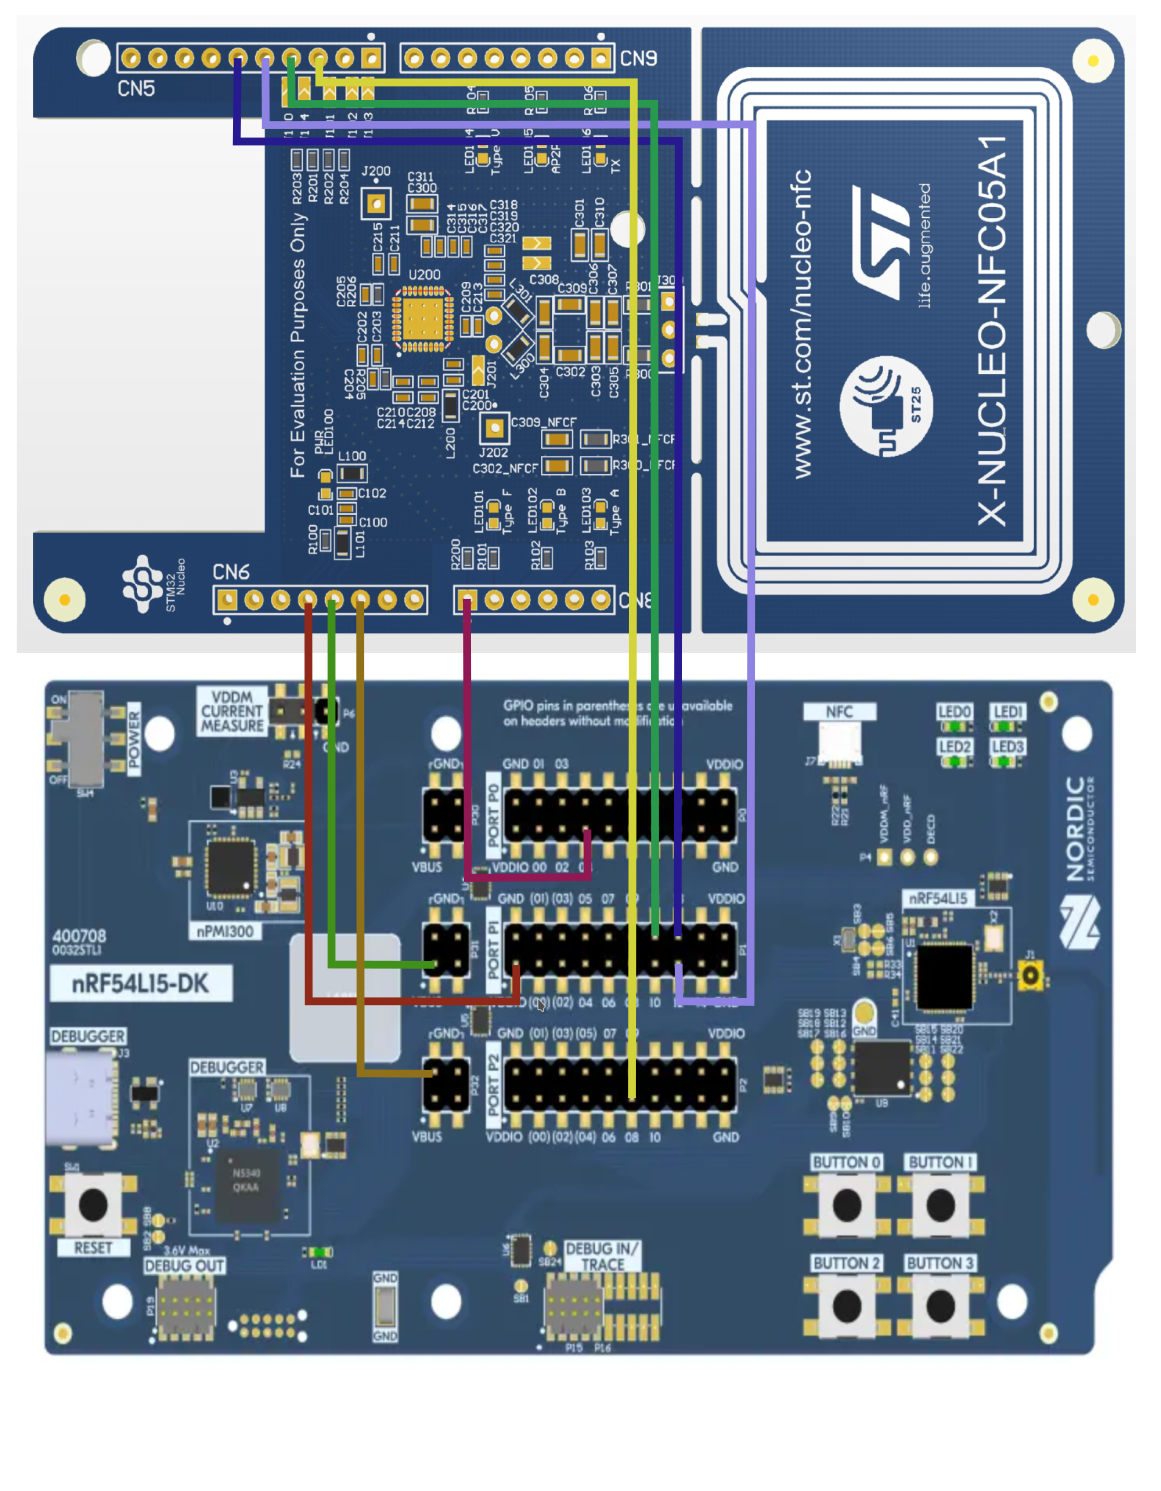
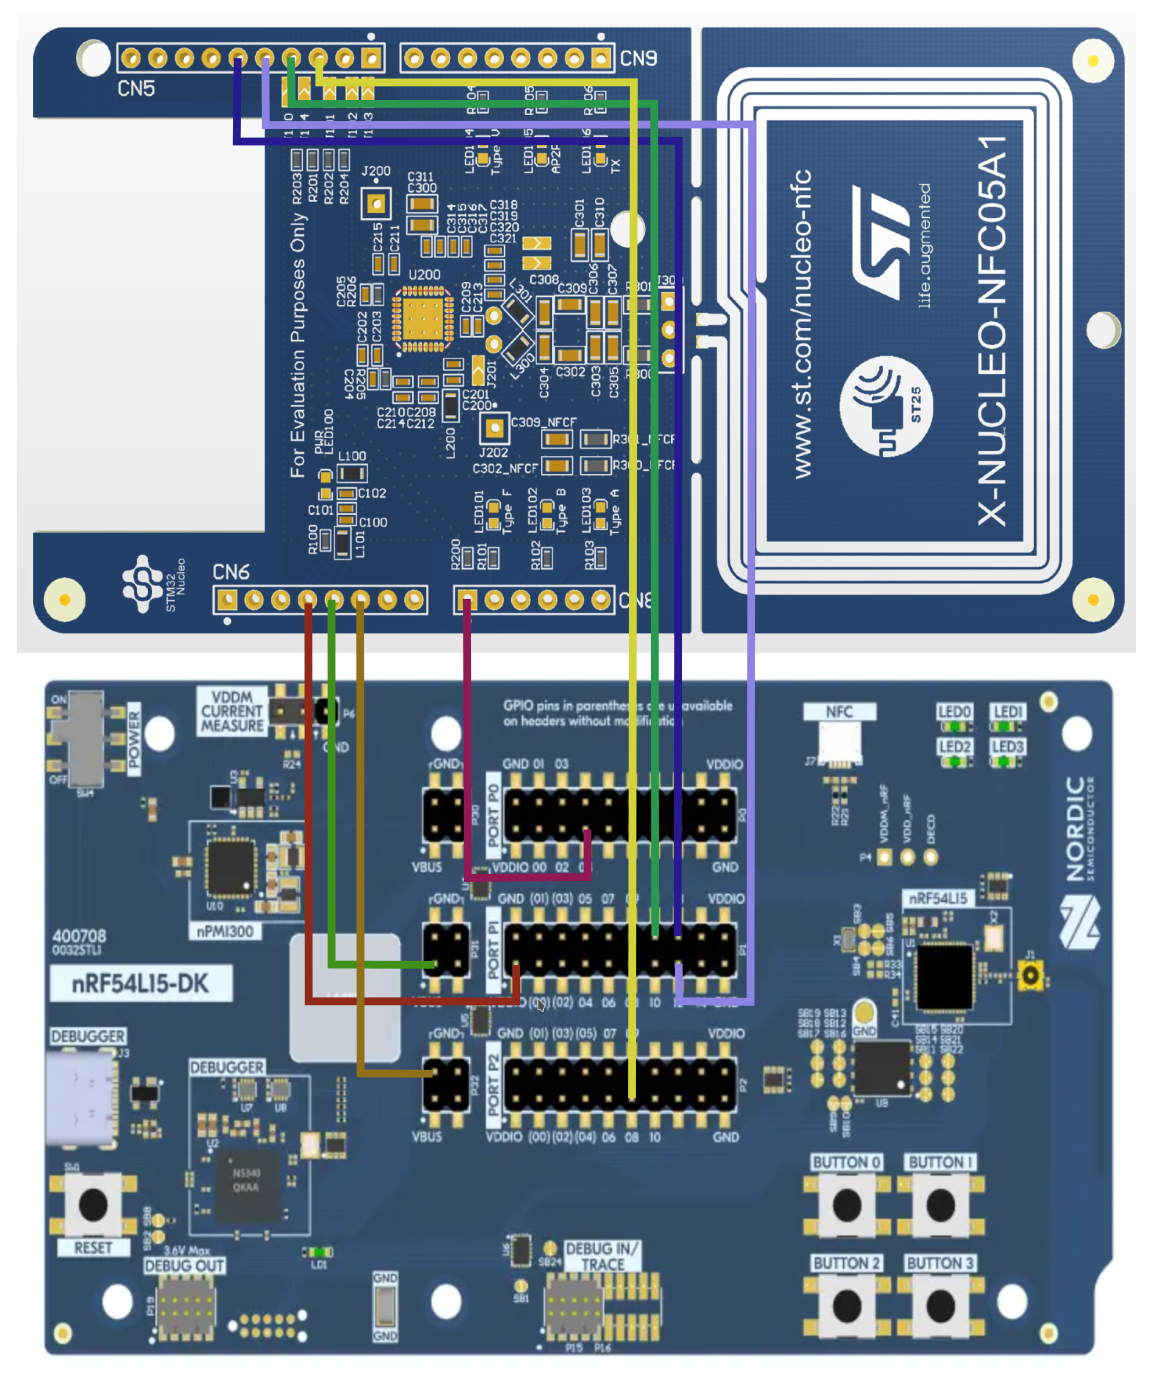
doc: review
Reviewed added changes

diff --git a/docs/hardware_requirements.rst b/docs/hardware_requirements.rst
@@ -3,9 +3,9 @@
 Hardware requirements
 #####################
 
-Before running and testing the NCS door lock, make sure you have required hardware.
+To run and test the NCS door lock, you must have the required hardware.
 
-.. _development_kit:
+.. _hw_requirements_development_kit:
 
 Development kit
 ***************
@@ -24,33 +24,31 @@ The application supports the following development kit (DK):
      - `nrf54l15dk`_
      - ``nrf54l15dk/nrf54l15/cpuapp``
 
+.. _hw_requirements_vddio_configuration:
 
-.. _vddio_configuration:
+Configuring VDDIO voltage
+=========================
 
-Port VDDIO voltage configuration on the development kit
-=======================================================
+The nRF54L15 DK operates at default voltage level of 1.8V.
+Some expansion boards, especially Arduino-style boards, require higher voltage to operate properly.
+You can adjust the voltage for ports on the nRF54L15 DK up to 3.3V using the `Board Configurator app`_.
+First, you must `install the Board Configurator app <Installing Board Configurator app_>`_ and once completed `Update your DK's configuration <Updating the board configuration_>`_.
 
-The nRF54L15 DK operates on a lower voltage level (1.8V) by default. Some expansion boards, especially Arduino-style boards, are not compatible
-with this voltage, and they are required higher voltage to operate. The ports on the nRF54L15 can be adjusted up to 3.3V.
-
-The voltage on the VDD rail of the nRF54L15 can be configured through the `nRF Connect Board Configurator`_ application.
-See `Installing Board Configurator app`_ to install the application and `Updating the board configuration`_ in order to change the DK configuration.
-
-See the picture below for VDD (nPM VOUT1) suggested configuration.
+See the recommended configuration for VDD (nPM VOUT1):
 
 .. figure:: /images/VDDIO-configuration.png
-   :scale: 50%
-   :alt: Suggested VDD board configuration.
+   :scale: 70%
+   :alt: VDD board configuration.
 
-   Suggested VDD board configuration.
+   VDD board configuration.
 
-.. _nfc_reader:
+.. _hw_requirements_nfc_reader:
 
 Near Field Communication (NFC) reader
 *************************************
 
-In addition to the DK you need at least NFC reader which is mandatory.
-The application supports the following NFC readers and development expansion boards based on them:
+To start working with the application, you must have at least one NFC reader.
+The application supports the following NFC readers and their corresponding development expansion boards:
 
 +-------------------+---------------------------------+
 | NFC reader        | NFC reader expansion board      |
@@ -63,17 +61,16 @@ The application supports the following NFC readers and development expansion boa
 +-------------------+---------------------------------+
 
 .. note::
-   The DK does not have Arduino-comatible header, thus the board must be connected via wires.
-   The pinout is described below and works for each of mentioned boards.
 
-.. warning::
-   The ``X-NUCLEO-NFC09A1`` board requires at least ``2.7V`` to operate and for the `nRF54L15 DK`_ GPIO voltage should be adjusted.
-   For more information, see :ref:`vddio_configuration`.
+   The `X-NUCLEO-NFC09A1`_ board requires a minimum of 2.7V to operate.
+   Because of that, you must adjust the GPIO voltage for the `nRF54L15 DK`_ as outlined in the :ref:`hw_requirements_vddio_configuration` section.
 
-To connect the NFC reader expansion board to the `nRF54L15 DK`_ refer to the following pin mapping:
+The DK does not have Arduino-compatible header, therefore, you must connect your board using wires.
+To connect the NFC reader expansion board to the `nRF54L15 DK`_, refer to the following pin mapping.
+The pinout is applicable for each of the supported NFC reader expansion boards:
 
 +-------------------+-----------------------+
-| nRF54L15 DK board | X-NUCLEO-NFC09A1      |
+| nRF54L15 DK       | X-NUCLEO board        |
 +===================+=======================+
 | P1.13             | SCK MCU (D13)         |
 +-------------------+-----------------------+
@@ -94,18 +91,19 @@ To connect the NFC reader expansion board to the `nRF54L15 DK`_ refer to the fol
 
 .. figure:: /images/nRF54L_X_NUCLEO_connection.png
    :scale: 50%
-   :alt: Expansion board connection.
+   :alt: Expansion board connection to the nRF54L15 DK.
 
-   X-NUCLEO expansion board connection to nRF54L15 DK.
+   X-NUCLEO expansion board connection to the nRF54L15 DK.
 
-.. _test_harness_hardware:
+.. _hw_requirements_test_harness:
 
 Test harness hardware
 *********************
 
-For testing purposes, you can use the official `Aliro Certification Tool`_ (aka test harness).
-To set up the test harness, you must meet the `test harness hardware requirements`_.
+For testing purposes, use the official `Aliro Certification Tool`_ as a test harness.
+To set it up, you must first meet the `test harness hardware requirements`_.
 
 .. note::
-   In order to gain access to this repository, you must be a member of the `Connectivity Standards Alliance`_ (CSA)
-   and send a request to the e-mail address: [email redacted] with your Github username.
+
+   In case you do not have an access to this repository, send a request to the [email redacted] providing your GitHub username.
+   Be aware that you must first become a member of the `Connectivity Standards Alliance`_ (CSA).

diff --git a/docs/building_and_running.rst b/docs/building_and_running.rst
@@ -3,15 +3,16 @@
 Building and running
 ####################
 
-In the workspace ``door-lock-workspace`` the |APP_NAME| is placed in the ``ncs-door-lock-app`` directory.
+In the :file:`door-lock-workspace` the |APP_NAME| is placed in the :file:`ncs-door-lock-app` directory.
 To build and run the application on the `nRF54L15 DK`_, complete the following steps:
 
-1. Connect the nRF54L15 DK to your computer using the ``DEBUGGER`` port on the DK. Set the ``POWER`` switch to ``ON``.
+1. Connect the nRF54L15 DK to your computer using the **DEBUGGER** port on the DK.
+   Set the **POWER** switch to **ON**.
 
-#. In the ``door-lock-workspace`` directory, navigate to the ``ncs-door-lock-app`` folder.
+#. In the :file:`door-lock-workspace` directory, navigate to the :file:`ncs-door-lock-app` folder.
 
-#. Depending on the :ref:`NFC reader expansion board <nfc_reader>` connected to the development kit,
-   build the application by running one of the following commands:
+#. Depending on the :ref:`NFC reader expansion board <hw_requirements_nfc_reader>` connected to the development kit,
+   build the application by running the corresponding command:
 
    +-----------------------+-----------------------+--------------------------------------------------------------------------------------------------------------+
    | Build type            | X-NUCLEO-NFC board    | Command                                                                                                      |
@@ -29,31 +30,31 @@ To build and run the application on the `nRF54L15 DK`_, complete the following s
 
       west flash
 
-#. To verify the application runs, connect to the DK with a terminal emulator that supports VT100/ANSI
-   escape characters (for example, nRF Connect Serial Terminal).
+#. To verify if the application runs, connect to the DK with a terminal emulator that supports VT100/ANSI escape characters.
+   It is recommended to use the `Serial Terminal app`_.
    See the `Testing and optimization`_ page in the |NCS| documentation for the required settings.
 
    .. note::
       |app_hwfc_enabled|
 
-#. Press the ``RESET`` button on the DK in order to refresh the application.
+#. Press the **RESET** button on the DK in order to refresh the application.
    You should see the following logs:
 
    .. code-block:: console
 
-      *** Booting My Application v0.1.0-619a3021dd37 ***                              
-      *** Using nRF Connect SDK v2.9.99-2116d9135090 ***                              
-      *** Using Zephyr OS v3.7.99-a2eaddb4bcbb ***                                    
-      I:                                                                              
-                                                @@@   @@@@                            
-          @@@@@@@@@@@@                          @@@                                   
-        @@@@@      @@@@@              @@@@   @@ @@@    @@      @@     @@@@            
-       @@@@          @@@@          @@@@  @@@@@@ @@@    @@   @@@@@  @@@   @@@@         
-      @@@@     @@      @@@        @@@       @@@ @@@    @@  @@@   @@@       @@@        
-      @@@     @@@@@    @@@       @@@        @@@ @@@    @@  @@    @@@        @@        
-      @@@   @@@@@@@@   @@@       @@@        @@@ @@@    @@  @@    @@@        @@        
-       @@@    @@@@    @@@@        @@@      @@@@ @@@    @@  @@     @@       @@@        
-        @@@   @@@@   @@@@           @@@@@@@@@@@  @@@@@ @@  @@      @@@@@@@@@          
-         @@@@ @@@@ @@@@                                                               
-           @@ @@@@ @@                                                                 
+      *** Booting My Application v0.1.0-619a3021dd37 ***
+      *** Using nRF Connect SDK v2.9.99-2116d9135090 ***
+      *** Using Zephyr OS v3.7.99-a2eaddb4bcbb ***
+      I:
+                                                @@@   @@@@
+          @@@@@@@@@@@@                          @@@
+        @@@@@      @@@@@              @@@@   @@ @@@    @@      @@     @@@@
+       @@@@          @@@@          @@@@  @@@@@@ @@@    @@   @@@@@  @@@   @@@@
+      @@@@     @@      @@@        @@@       @@@ @@@    @@  @@@   @@@       @@@
+      @@@     @@@@@    @@@       @@@        @@@ @@@    @@  @@    @@@        @@
+      @@@   @@@@@@@@   @@@       @@@        @@@ @@@    @@  @@    @@@        @@
+       @@@    @@@@    @@@@        @@@      @@@@ @@@    @@  @@     @@       @@@
+        @@@   @@@@   @@@@           @@@@@@@@@@@  @@@@@ @@  @@      @@@@@@@@@
+         @@@@ @@@@ @@@@
+           @@ @@@@ @@
       ...

diff --git a/docs/software_requirements.rst b/docs/software_requirements.rst
@@ -3,28 +3,34 @@
 Software requirements
 #####################
 
+This page summarizes the requirements for setting up and working with the |app_name|.
+
 .. _sdk_set_up:
 
-nRF Connect SDK
----------------
+|NCS|
+*****
 
-To work with |APP_NAME|, you need to install the nRF Connect SDK development environment and the nRF Connect SDK toolchain.
-Follow the `Installing the nRF Connect SDK`_ instruction with one exception.
+Before you start working with the application, you must have the following:
 
-In the `Get the nRF Connect SDK code`_ installaltion step for, the ``add-on`` skip step 4, and use following commands:
+* Installed the |NCS| development environment and |NCS| toolchain
+* Access to the `ncs-aliro`_ private repository
+
+Complete `Installing the nRF Connect SDK`_.
+In the `Get the nRF Connect SDK code`_ subsection, step 4, run the following command instead:
 
 .. code-block:: bash
 
    west init -m https://github.com/nrfconnect/ncs-door-lock-app --mr main door-lock-workspace
    cd door-lock-workspace
 
-This will clone the ``add-on`` manifest repository `ncs-door-lock-app`_ into ``door-lock-workspace``.
-
 .. note::
-   Before executing ``west update`` make sure that you have access to `ncs-aliro`_ private repository.
+   |VSC| does not support private add-ons.
+   You must use command line instructions to clone the repository.
+
+This command will clone the `ncs-door-lock-app`_ add-on manifest repository into :file:`door-lock-workspace`.
+Once executed, complete the remaining steps.
 
 Aliro Certification Tool
-------------------------
+************************
 
-Install official `Aliro Certification Tool`_ to be able to execute test cases.
-Follow :ref:`test harness hardware <test_harness_hardware>` to get the tool.
+You must have the official :ref:`Aliro Certification Tool to be able to execute test cases <hw_requirements_test_harness>`.

diff --git a/docs/index.rst b/docs/index.rst
@@ -1,25 +1,19 @@
 .. _index:
 
 Door lock reference application for the |NCS|
-=============================================
+#############################################
 
-Aliro is the new industry-standard access credential and communication protocol, offering a secured,
-convenient, and consistent experience when using smartphones, wearables, or other smart digital user 
-devices to unlock doors and openings.
+Aliro is the new industry-standard access control and communication protocol, offering a secure, convenient, and consistent experience for users using smartphones, wearables, or other smart digital devices to unlock doors and openings.
 
-The Aliro boasts several key features that distinguish it from existing access protocols:
+Aliro features several key features that distinguish it from existing access protocols:
 
-* Interoperability and compatibility between access readers, such as electronic locks and
-  access control readers and user devices, such as smartphone and werables. Standardized solution enables
-  manufacturer-independent devices and readers to work together without sacrificing security.
-* Flexibility - is not dictated how your digital door lock or access control reader will connect
-  to the rest of your ecosystem.
-* Multiple transport protocols such as Near Field Communication (NFC) which is mandatory, Bluetooth® Low-Energy (BLE) or
-  BLE with Ultra-Wideband (UWB).
+* Interoperability and compatibility - Ensures seamless interaction between access readers, such as electronic locks and access control readers, and user devices like smartphone and wearables.
+  The standardized solution allows manufacturer-independent devices and readers to work together without compromising security.
+* Flexibility - Does not dictate how your digital door lock or access control reader connects to the rest of your ecosystem.
+* Protocol support - Supports various transport protocols, including mandatory Near Field Communication (NFC), Bluetooth® LE or Bluetooth LE with Ultra-Wideband (UWB).
 
   .. note::
-     In the current implementation of the Aliro stack, only mandatory NFC is supported.
-
+     In the current implementation, the Aliro stack supports only the mandatory NFC protocol.
 
 .. toctree::
    :maxdepth: 1